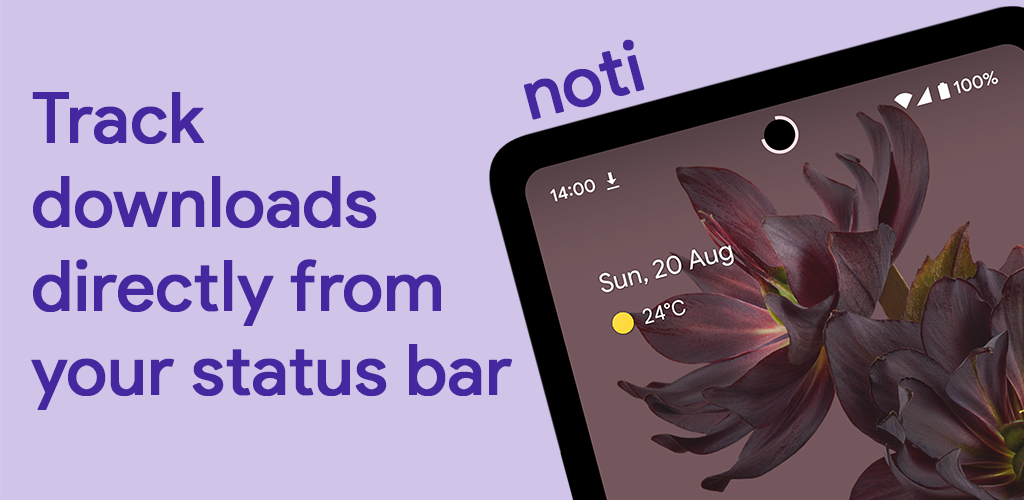
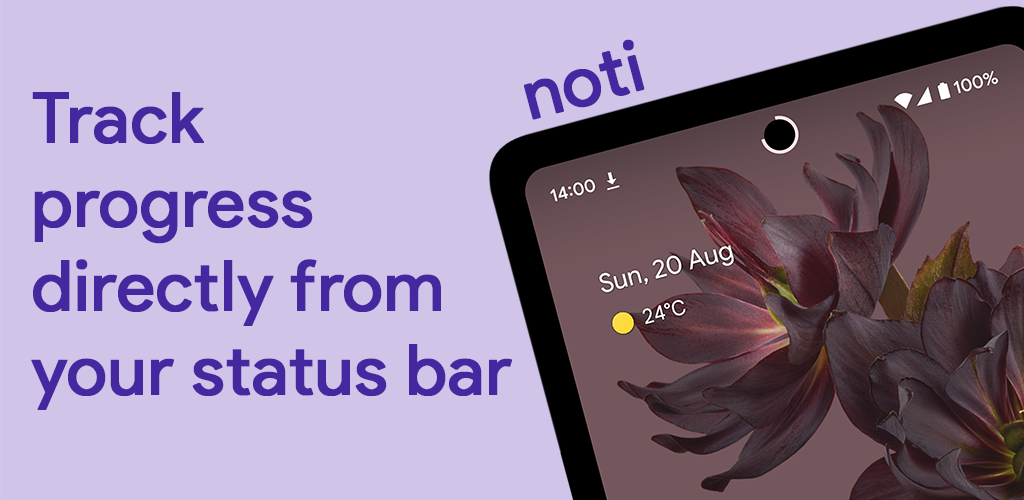
Update readme

Changed region(s): [[0.0312, 0.36, 0.375, 0.48]]

diff --git a/README.md b/README.md
@@ -4,10 +4,14 @@
 
 ## Features
 
-+ Noti lets you track downloads directly from your status bar.
++ Noti lets you track progress directly from your status bar.
 + With a customizable progress bar or progress circle.
 + Adjust the progress circle to fit your phone's hole punch camera.
 
 ## Download
 
 [<img alt="Get it on Google Play" height="100" src="https://play.google.com/intl/en_us/badges/static/images/badges/en_badge_web_generic.png" />](https://play.google.com/store/apps/details?id=com.gustavoas.noti)
+
+## License
+
+The code for Noti is available under the GPL-3.0 License. However, I ask that you please refrain from distributing the compiled APK anywhere.
